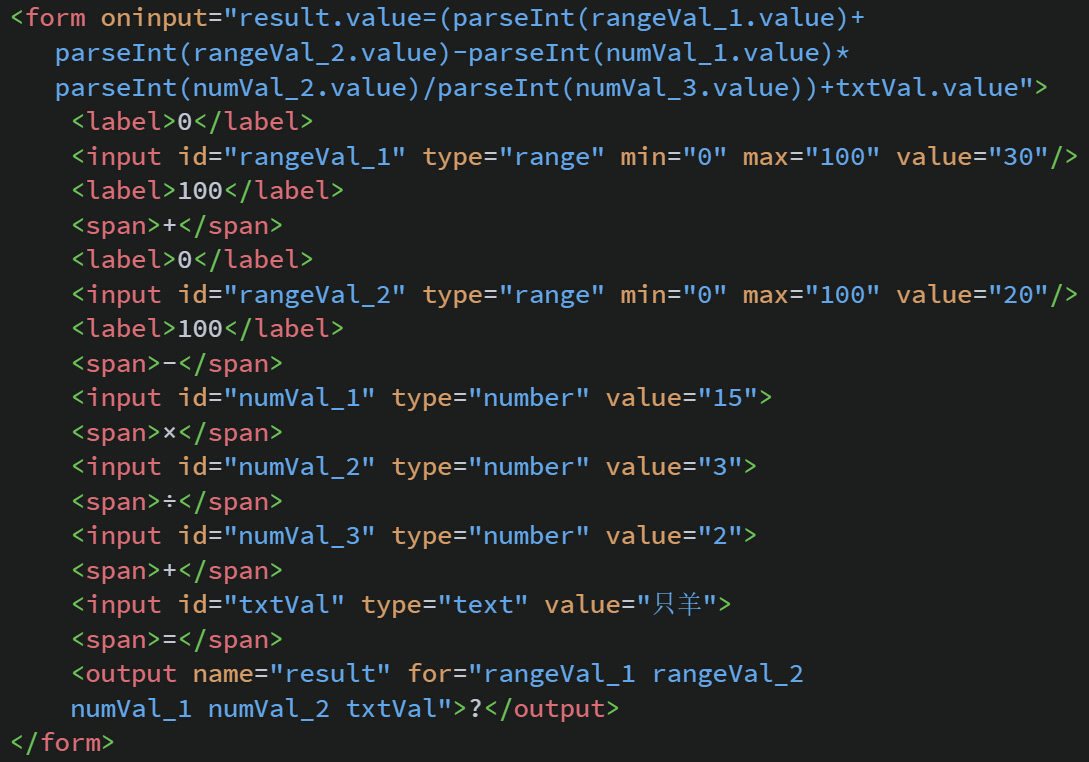
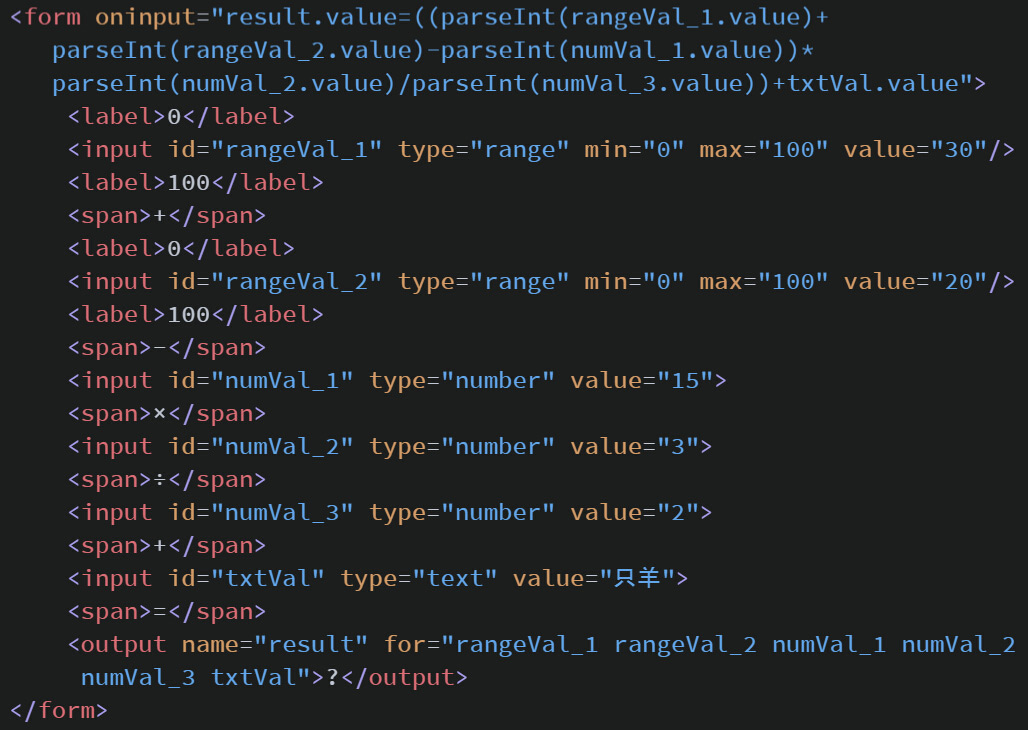
修改了关于<output>内容部分的一个细节错误；删除了<meter>标签的一段错误的描述文字

Changed region(s): [[0.0, 0.0, 0.9961, 0.9945], [0.0, 0.0, 0.0311, 0.0301]]

diff --git a/css/common.min.css b/css/common.min.css
@@ -1,1 +1,1 @@
-@charset "UTF-8";.module-welcome,code,iframe.codeEffect,iframe.codeEffect-unauto,output,root[data-root]{-webkit-box-sizing:border-box;-moz-box-sizing:border-box;box-sizing:border-box}.content .loading,.module-welcome,.module-welcome p{position:absolute}a,body,html,input,textarea{font-family:"微软雅黑",arial}.module-welcome{width:640px;height:400px;background-color:#fef9f8;background-position:center;border:1px solid #fff;border-right-color:#e3e4e5;border-bottom-color:#e3e4e5;border-radius:300px 3px;text-align:left;color:#3c4d86;left:50%;top:50%;margin-left:-320px;margin-top:-200px;box-shadow:0 6px 16px rgba(34,34,34,.34);animation:rotateWelcome 3s linear infinite alternate}@keyframes rotateWelcome{0%{transform:rotate(15deg);background-color:#fef9f8}50%{transform:rotate(0);background-color:#f3f9f8}100%{transform:rotate(-15deg);background-color:#e3f9f1}}@-webkit-keyframes rotateWelcome{0%{transform:rotate(15deg);background-color:#fef9f8}50%{transform:rotate(0);background-color:#f3f9f8}100%{transform:rotate(-15deg);background-color:#e3f9f1}}root[data-root] .module-welcome p{width:auto;text-indent:1em;font:400 56px/56px "方正舒体","华文行楷","楷体";padding:48px;top:50%;margin-top:-98px}root[data-root] .module-welcome p.longTxt{margin-top:-138px}.mt-1{margin-top:-1px}.mt0{margin-top:0}.mt10{margin-top:10px}.mt15{margin-top:15px}.mt20{margin-top:20px}.mt25{margin-top:25px}.mt30{margin-top:30px}root[data-root]{width:100%;min-height:100%;background-color:#fff;padding:12px 12px 150px;display:block}root[data-root] section{margin-top:50px}root[data-root] section:first-child{margin-top:0}root[data-root] h3{line-height:30px;font-size:32px;margin-top:10px;margin-bottom:10px;color:#11278a}root[data-root] h4{line-height:30px;font-size:22px;margin-top:14px;margin-bottom:10px;color:#333}root[data-root] p{line-height:1.4;text-indent:2em;font-size:20px;color:#555;margin:18px 0}root[data-root] p.noindent{text-indent:0}root[data-root] dl.attrExplain dd em,root[data-root] p em,root[data-root] ul li em{font-size:24px;color:#0b933b}root[data-root] a{text-decoration:none;color:#136ded}root[data-root] section.unitPractice{background-color:#41280e;border:2px solid #654523;border-right:2px solid #1c0f02;border-bottom:2px solid #1c0f02;border-radius:15px;padding:12px 20px;color:#f2ebe7;box-shadow:0 10px 8px rgba(123,100,86,.33);margin-top:100px}root[data-root] section.unitPractice h3,root[data-root] section.unitPractice h4,root[data-root] section.unitPractice p{color:#f2ebe7}root[data-root] section.unitPractice h3{border-bottom:1px dotted #fff;font-size:22px}root[data-root] section.unitPractice h4{font-size:22px}root[data-root] section.unitPractice p{margin-top:.5em;margin-bottom:.5em;text-indent:0}root[data-root] dl.attrExplain{margin-left:4em;margin-right:4em}root[data-root] dl.attrExplain dt{color:#2a90d1;background:url(../img/content/sign-dt.png) 0 8px no-repeat;text-indent:24px;font-size:24px;margin-left:-24px;margin-bottom:4px}root[data-root] dl.attrExplain dd{font-size:20px;margin-bottom:12px}root[data-root] ul{list-style-image:url(../img/content/sign-dt-ul.png);margin-top:4px;margin-bottom:4px;list-style-position:outside;margin-left:1.6em}root[data-root] ul.indent{margin:0 4em}root[data-root] ul li{line-height:160%;font-size:20px}root[data-root] ul.corresNouns{list-style:none}root[data-root] ul.corresNouns>li{width:340px;height:30px;position:relative;overflow:hidden}root[data-root] ul.corresNouns>li>span{line-height:30px;background-color:#fff;white-space:nowrap;position:absolute;display:block}root[data-root] ul.corresNouns>li>span:first-child{top:0;left:0}root[data-root] ul.corresNouns>li>span:first-child:after{content:" ·······················································································"}root[data-root] ul.corresNouns>li>span:last-child{background-color:#fff;top:0;right:0}root[data-root] ul.corresNouns>li>span:last-child:before{content:" ";display:inline-block;width:6px}.content .loading{width:90px;height:30px;left:50%;top:50%;margin-left:-45px;margin-top:-15px}.content .loading span{width:16px;height:16px;background-color:#11278a;border-radius:8px;margin-top:7px;margin-right:21px;display:block;float:left;animation:loadingAnimate linear .45s infinite 0s alternate}code img,img.dateImg{width:auto;max-width:100%}.content .loading span:nth-child(2){animation-delay:.15s}.content .loading span:nth-child(3){animation-delay:.3s}.content .loading span:last-child{margin-right:0}@keyframes loadingAnimate{0%{transform:scale(1);opacity:.5}100%{transform:scale(1.5);opacity:1}}@-webkit-keyframes loadingAnimate{0%{transform:scale(1) opacity: .5}100%{transform:scale(1.5);opacity:1}}code{background-color:#1c1e1d;margin-bottom:15px;border-radius:15px;overflow:hidden;display:inline-block}code img{height:auto;display:block;-webkit-box-shadow:0 4px 6px rgba(123,123,123,.33);box-shadow:0 4px 6px rgba(123,123,123,.33)}img.dateImg{display:block;margin:10px auto}img.dateImg.w80p{width:80%}iframe.codeEffect,iframe.codeEffect-unauto,output{width:100%;height:auto;background-color:#fff;border:1px solid #ddd;border-radius:15px;box-shadow:0 4px 4px rgba(182,186,188,.33);padding:10px;margin-bottom:15px;font-size:20px;color:#000;display:block;overflow:hidden}supcss3,suph5,unsupcss3,unsuph5{width:24px;height:24px;display:inline-block;vertical-align:middle;position:relative;top:-2px}suph5{background:url(../img/content/h5_support.gif) no-repeat}unsuph5{background:url(../img/content/h5_unSupport.gif) no-repeat}supcss3{background:url(../img/content/css3_support.gif) no-repeat}unsupcss3{background:url(../img/content/css3_unSupport.gif) no-repeat}::-webkit-scrollbar{width:14px}::-webkit-scrollbar-track-piece{background-color:#f0f0f0;box-shadow:inset 0 0 4px rgba(15,25,78,.3);margin:0}::-webkit-scrollbar-thumb{background-color:#11278a;min-height:80px;border-radius:7px}::-webkit-scrollbar-thumb:vertical:hover{background-color:#2a90d1;box-shadow:0 2px 8px rgba(59,63,80,.8)}
+@charset "UTF-8";.module-welcome,code,iframe.codeEffect,iframe.codeEffect-unauto,output,root[data-root]{-webkit-box-sizing:border-box;-moz-box-sizing:border-box;box-sizing:border-box}.content .loading,.module-welcome,.module-welcome p{position:absolute}a,body,html,input,textarea{font-family:"微软雅黑",arial}.module-welcome{width:640px;height:400px;background-color:#fef9f8;background-position:center;border:1px solid #fff;border-right-color:#e3e4e5;border-bottom-color:#e3e4e5;border-radius:300px 3px;text-align:left;color:#3c4d86;left:50%;top:50%;margin-left:-320px;margin-top:-200px;box-shadow:0 6px 16px rgba(34,34,34,.34);animation:rotateWelcome 3s linear infinite alternate}@keyframes rotateWelcome{0%{transform:rotate(15deg);background-color:#fef9f8}50%{transform:rotate(0);background-color:#f3f9f8}100%{transform:rotate(-15deg);background-color:#e3f9f1}}@-webkit-keyframes rotateWelcome{0%{transform:rotate(15deg);background-color:#fef9f8}50%{transform:rotate(0);background-color:#f3f9f8}100%{transform:rotate(-15deg);background-color:#e3f9f1}}root[data-root] .module-welcome p{width:auto;text-indent:1em;font:400 56px/56px "方正舒体","华文行楷","楷体";padding:48px;top:50%;margin-top:-98px}root[data-root] .module-welcome p.longTxt{margin-top:-138px}.mt-1{margin-top:-1px}.mt0{margin-top:0}.mt10{margin-top:10px}.mt15{margin-top:15px}.mt20{margin-top:20px}.mt25{margin-top:25px}.mt30{margin-top:30px}root[data-root]{width:100%;min-height:100%;background-color:#fff;padding:12px 12px 150px;display:block}root[data-root] section{margin-top:50px}root[data-root] section:first-of-type{margin-top:0}root[data-root] h3{line-height:30px;font-size:32px;margin-top:10px;margin-bottom:10px;color:#11278a}root[data-root] h4{line-height:30px;font-size:22px;margin-top:14px;margin-bottom:10px;color:#333}root[data-root] p{line-height:1.4;text-indent:2em;font-size:20px;color:#555;margin:18px 0}root[data-root] p.noindent{text-indent:0}root[data-root] dl.attrExplain dd em,root[data-root] p em,root[data-root] ul li em{font-size:24px;color:#0b933b}root[data-root] a{text-decoration:none;color:#136ded}root[data-root] section.unitPractice{background-color:#41280e;border:2px solid #654523;border-right:2px solid #1c0f02;border-bottom:2px solid #1c0f02;border-radius:15px;padding:12px 20px;color:#f2ebe7;box-shadow:0 10px 8px rgba(123,100,86,.33);margin-top:100px}root[data-root] section.unitPractice h3,root[data-root] section.unitPractice h4,root[data-root] section.unitPractice p{color:#f2ebe7}root[data-root] section.unitPractice h3{border-bottom:1px dotted #fff;font-size:22px}root[data-root] section.unitPractice h4{font-size:22px}root[data-root] section.unitPractice p{margin-top:.5em;margin-bottom:.5em;text-indent:0}root[data-root] dl.attrExplain{margin-left:4em;margin-right:4em}root[data-root] dl.attrExplain dt{color:#2a90d1;background:url(../img/content/sign-dt.png) 0 8px no-repeat;text-indent:24px;font-size:24px;margin-left:-24px;margin-bottom:4px}root[data-root] dl.attrExplain dd{font-size:20px;margin-bottom:12px}root[data-root] ul{list-style-image:url(../img/content/sign-dt-ul.png);margin-top:4px;margin-bottom:4px;list-style-position:outside;margin-left:1.6em}root[data-root] ul.indent{margin:0 4em}root[data-root] ul li{line-height:160%;font-size:20px}root[data-root] ul.corresNouns{list-style:none}root[data-root] ul.corresNouns>li{width:340px;height:30px;position:relative;overflow:hidden}root[data-root] ul.corresNouns>li>span{line-height:30px;background-color:#fff;white-space:nowrap;position:absolute;display:block}root[data-root] ul.corresNouns>li>span:first-child{top:0;left:0}root[data-root] ul.corresNouns>li>span:first-child:after{content:" ·······················································································"}root[data-root] ul.corresNouns>li>span:last-child{background-color:#fff;top:0;right:0}root[data-root] ul.corresNouns>li>span:last-child:before{content:" ";display:inline-block;width:6px}.content .loading{width:90px;height:30px;left:50%;top:50%;margin-left:-45px;margin-top:-15px}.content .loading span{width:16px;height:16px;background-color:#11278a;border-radius:8px;margin-top:7px;margin-right:21px;display:block;float:left;animation:loadingAnimate linear .45s infinite 0s alternate}code img,img.dateImg{width:auto;max-width:100%}.content .loading span:nth-child(2){animation-delay:.15s}.content .loading span:nth-child(3){animation-delay:.3s}.content .loading span:last-child{margin-right:0}@keyframes loadingAnimate{0%{transform:scale(1);opacity:.5}100%{transform:scale(1.5);opacity:1}}@-webkit-keyframes loadingAnimate{0%{transform:scale(1) opacity: .5}100%{transform:scale(1.5);opacity:1}}code{background-color:#1c1e1d;margin-bottom:15px;border-radius:15px;overflow:hidden;display:inline-block}code img{height:auto;display:block;-webkit-box-shadow:0 4px 6px rgba(123,123,123,.33);box-shadow:0 4px 6px rgba(123,123,123,.33)}img.dateImg{display:block;margin:10px auto}img.dateImg.w80p{width:80%}iframe.codeEffect,iframe.codeEffect-unauto,output{width:100%;height:auto;background-color:#fff;border:1px solid #ddd;border-radius:15px;box-shadow:0 4px 4px rgba(182,186,188,.33);padding:10px;margin-bottom:15px;font-size:20px;color:#000;display:block;overflow:hidden}supcss3,suph5,unsupcss3,unsuph5{width:24px;height:24px;display:inline-block;vertical-align:middle;position:relative;top:-2px}suph5{background:url(../img/content/h5_support.gif) no-repeat}unsuph5{background:url(../img/content/h5_unSupport.gif) no-repeat}supcss3{background:url(../img/content/css3_support.gif) no-repeat}unsupcss3{background:url(../img/content/css3_unSupport.gif) no-repeat}::-webkit-scrollbar{width:14px}::-webkit-scrollbar-track-piece{background-color:#f0f0f0;box-shadow:inset 0 0 4px rgba(15,25,78,.3);margin:0}::-webkit-scrollbar-thumb{background-color:#11278a;min-height:80px;border-radius:7px}::-webkit-scrollbar-thumb:vertical:hover{background-color:#2a90d1;box-shadow:0 2px 8px rgba(59,63,80,.8)}

diff --git a/html-pages/html/codeEffect/code-44.html b/html-pages/html/codeEffect/code-44.html
@@ -11,8 +11,8 @@
     </style>
 </head>
 <body>
-    <form oninput="result.value=(parseInt(rangeVal_1.value)+
-       parseInt(rangeVal_2.value)-parseInt(numVal_1.value)*
+    <form oninput="result.value=((parseInt(rangeVal_1.value)+
+       parseInt(rangeVal_2.value)-parseInt(numVal_1.value))*
        parseInt(numVal_2.value)/parseInt(numVal_3.value))+txtVal.value">
         <label>0</label>
         <input id="rangeVal_1" type="range" min="0" max="100" value="30"/>
@@ -30,8 +30,8 @@
         <span>+</span>
         <input id="txtVal" type="text" value="只羊">
         <span>=</span>
-        <output name="result" for="rangeVal_1 rangeVal_2
-        numVal_1 numVal_2 txtVal">?</output>
+        <output name="result" for="rangeVal_1 rangeVal_2 numVal_1 numVal_2
+         numVal_3 txtVal">?</output>
     </form>
 </body><script src="../../../plugin/jquery-3.1.0.min.js"></script> <script src="../../../js/iframe.min.js"></script>
 </html>

diff --git a/html-pages/html/html-09.html b/html-pages/html/html-09.html
@@ -29,7 +29,6 @@
         </code>
         <h4>运行效果：</h4>
         <iframe data-iframe-coderun class="codeEffect" src="html-pages/html/codeEffect/code-47.html" style="height:124px;"></iframe>
-        <p>由于在测试环境中，没有发现“optimum”属性产生任何作用，所以在这里大家只要进行简单记录即可。当然，在实际项目中也可以加上该属性，以迎接“新规范”的支持。</p>
     </section>
     <section>
         <h3>&lt;progress&gt;<suph5></suph5>标签</h3>
